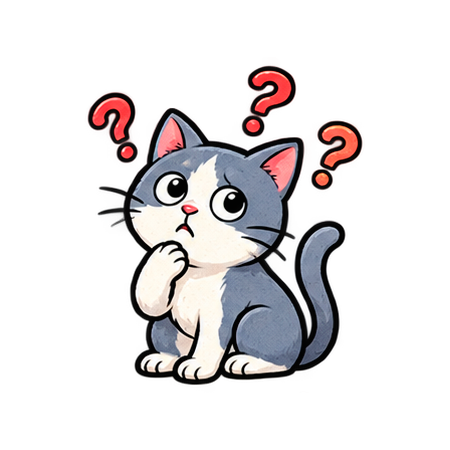
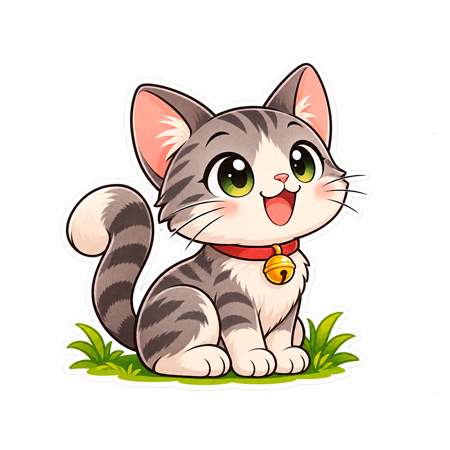
sync

diff --git a/src/app/animal-quiz/animal-quiz-page.scss b/src/app/animal-quiz/animal-quiz-page.scss
@@ -45,7 +45,7 @@ h2 {
   display: grid;
   place-items: center;
   min-height: 230px;
-  margin: 20px 0 28px;
+  margin: 0px 0 28px;
   padding: 10px;
 }
 .animal-picture img {
